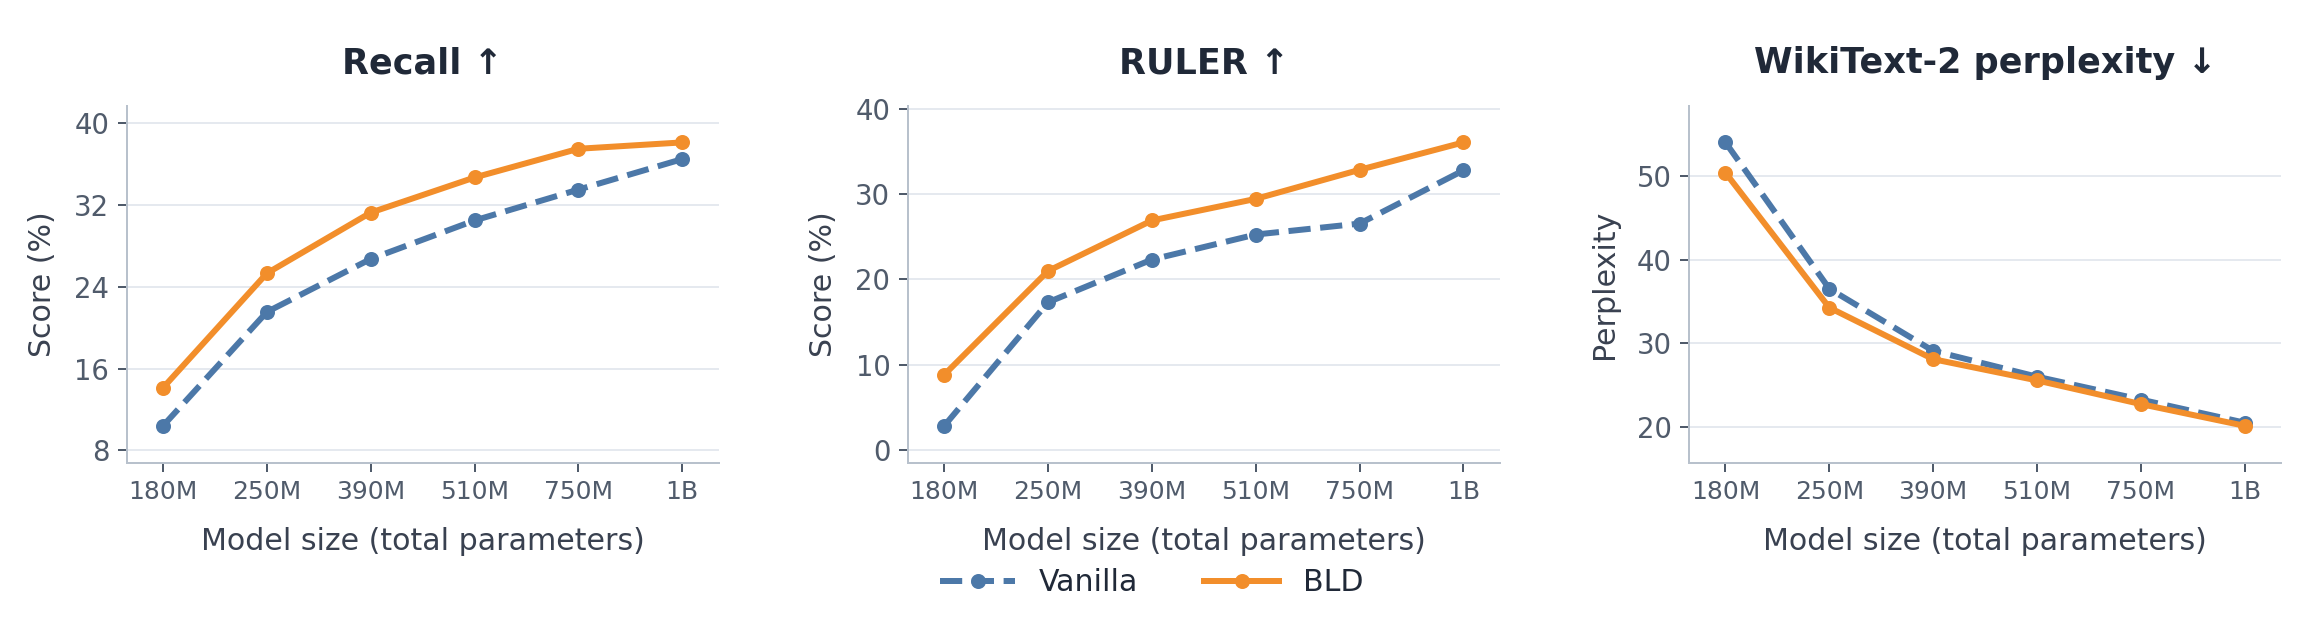
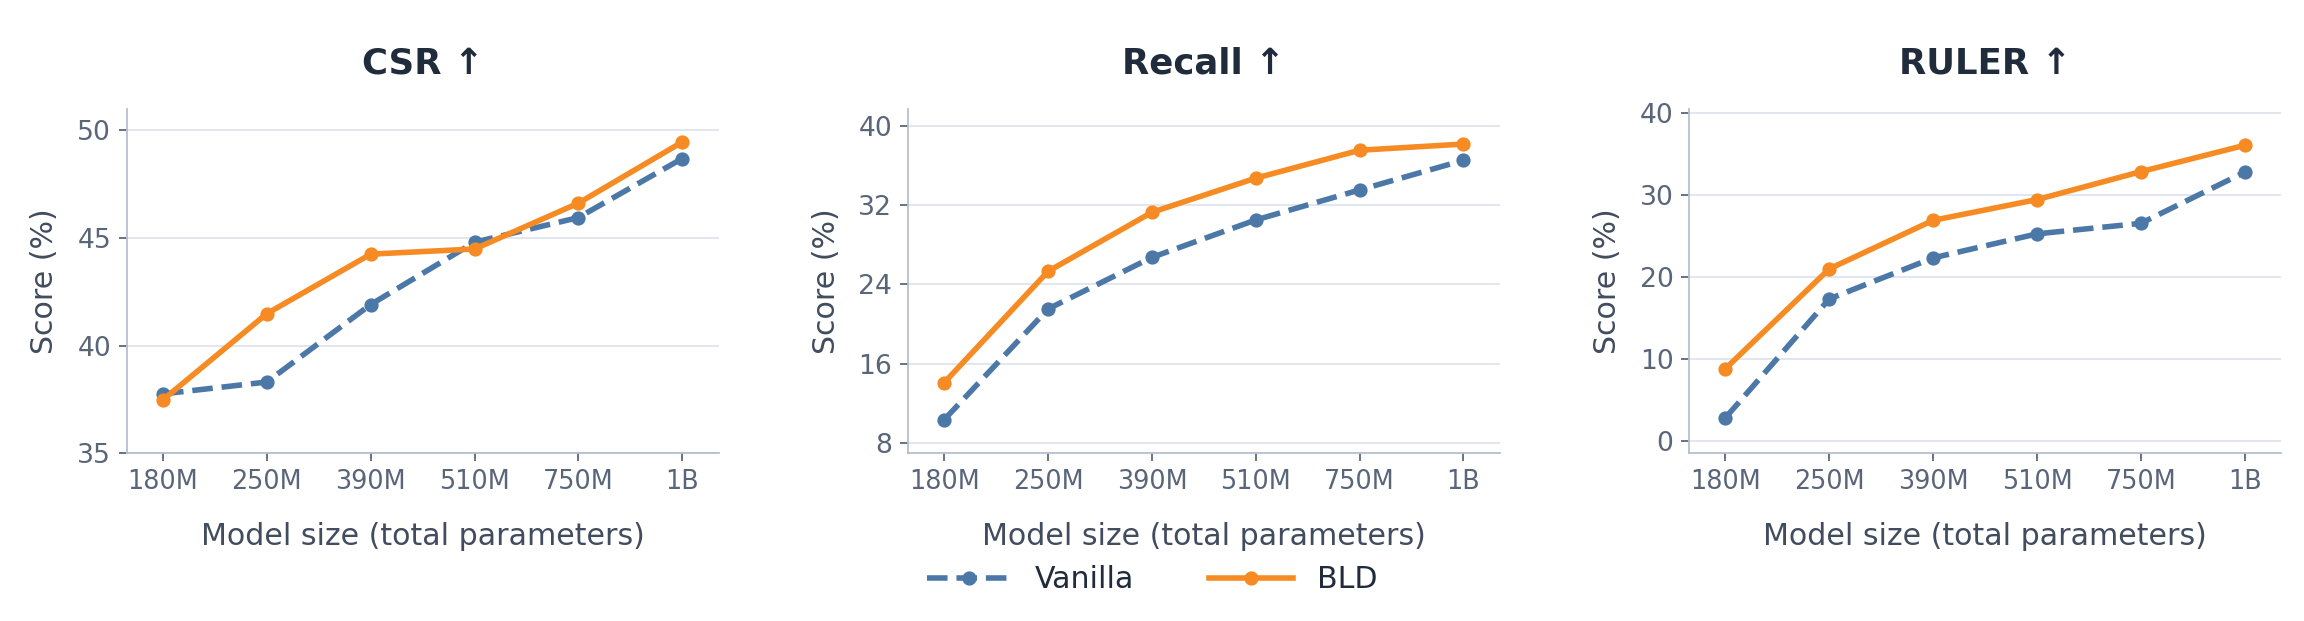
Show CSR, Recall, and RULER in README results

diff --git a/README.md b/README.md
@@ -17,10 +17,10 @@ layers learn retrieval first, they weaken the learning signal available to atten
 blocks early in pretraining, then unfreezing the full model.** The architecture stays
 the same throughout training.
 
-<img src="assets/results.png" alt="Vanilla and BLD results on Recall, RULER, and WikiText-2 for six KDA hybrid models from 180M to 1B parameters." width="100%">
+<img src="assets/results.png" alt="Vanilla and BLD results on CSR, Recall, and RULER for six KDA hybrid models from 180M to 1B parameters." width="100%">
 
-**KDA results across model scales.** BLD improves retrieval scores and reduces
-WikiText-2 perplexity across the six configurations. Values come from Table 1 of
+**KDA results across model scales.** CSR, Recall, and RULER scores compare Vanilla
+and BLD across the six configurations. Values come from Table 1 of
 the paper and are available in [results_table.csv](results_table.csv).
 
 <details>
